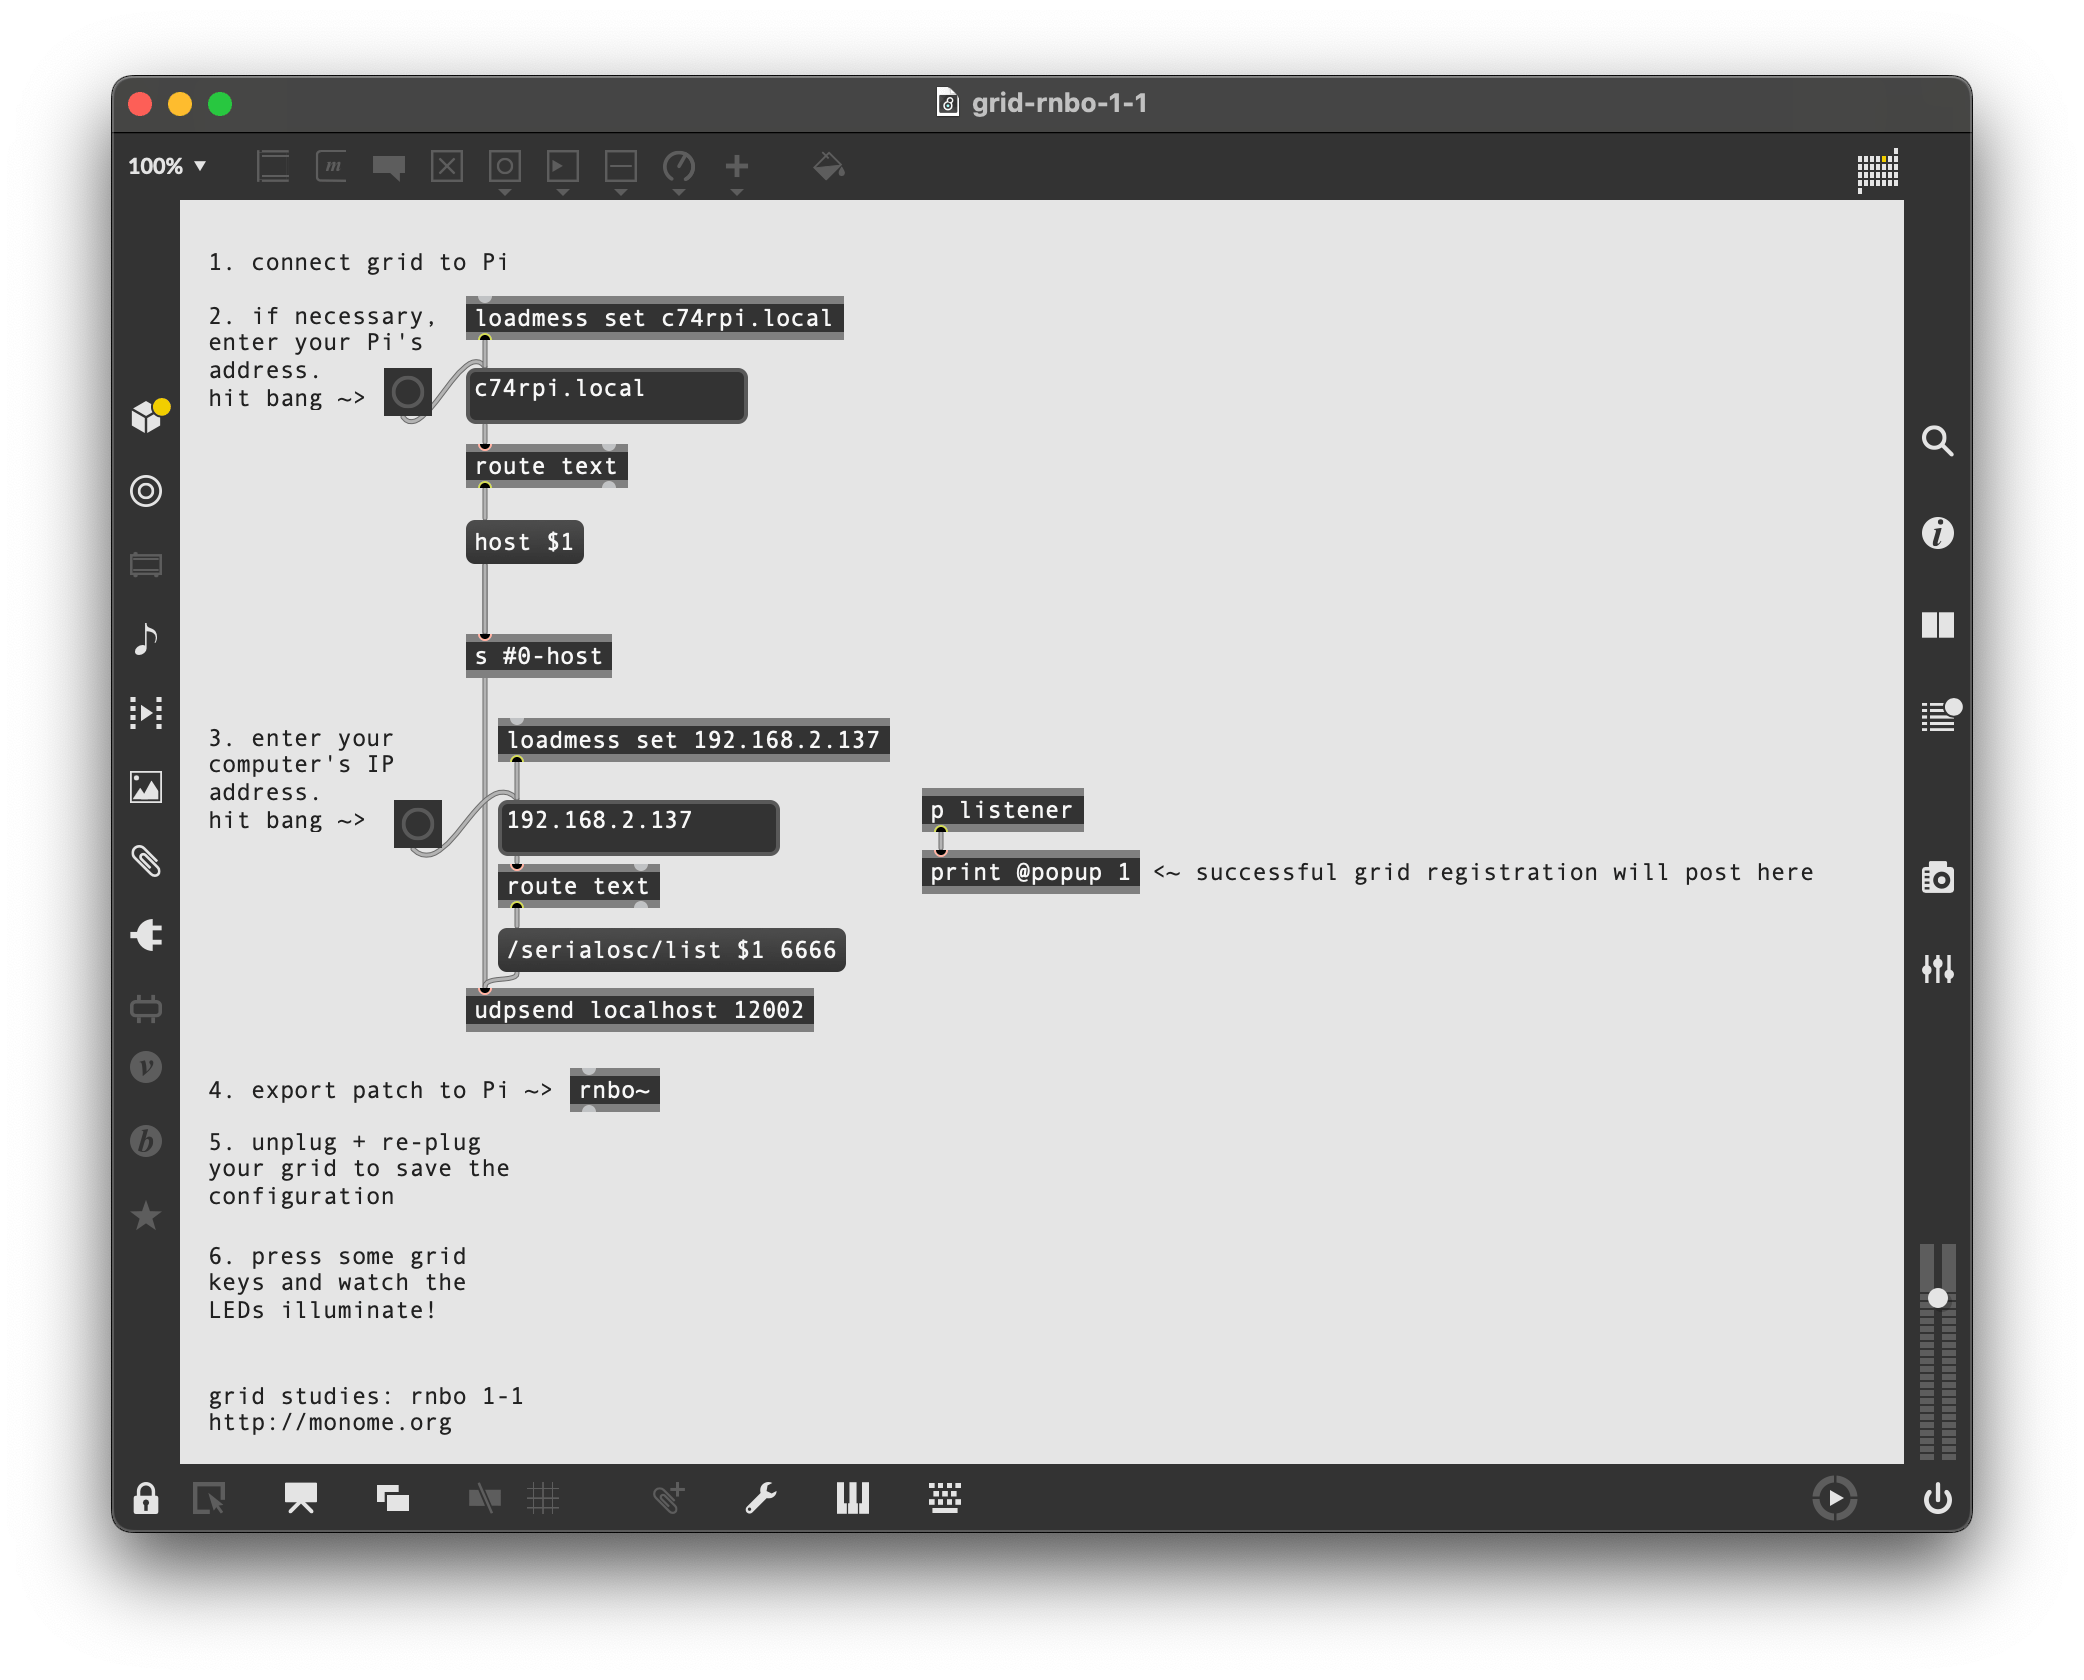
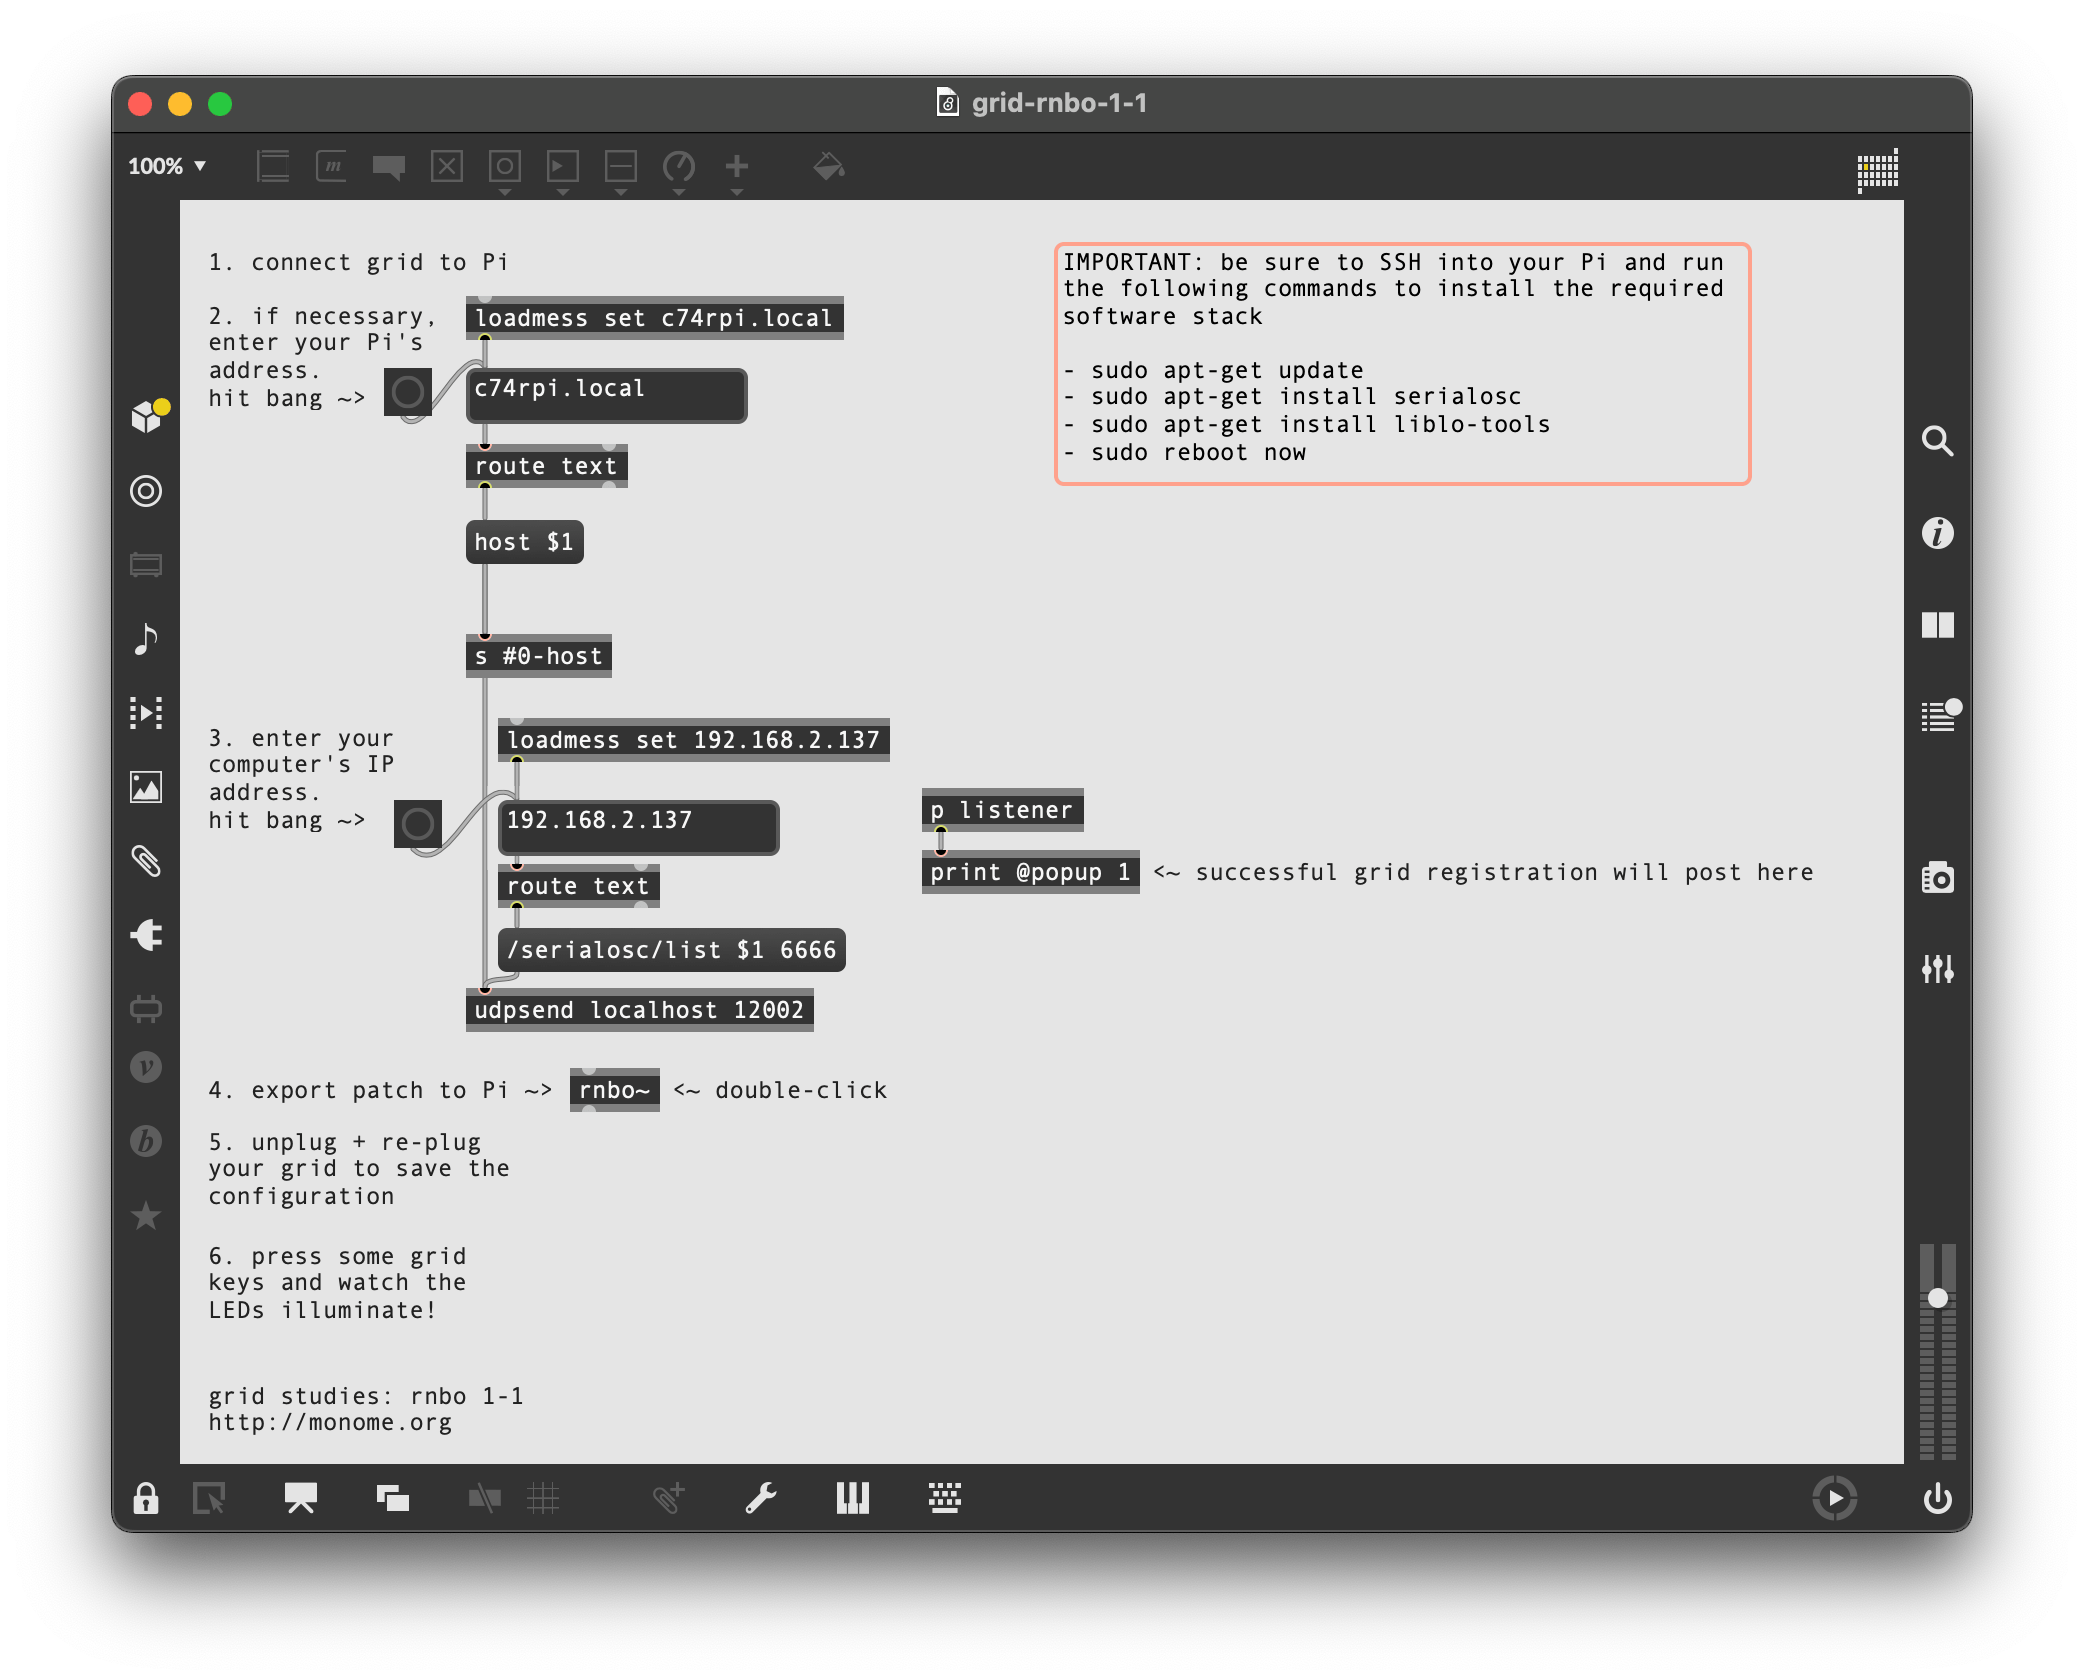
1.3.1

Changed region(s): [[0.499, 0.1238, 0.7486, 0.2786], [0.7486, 0.1238, 0.8421, 0.1857]]

diff --git a/grid/studies/rnbo/index.md b/grid/studies/rnbo/index.md
@@ -9,7 +9,7 @@ RNBO, by [Cycling '74](https://cycling74.com/), is a library and toolchain that 
 
 This tutorial will show the basics of interfacing with the grid including how a simple, yet immediate sequencer platform can be made with a small amount of code.
 
-## Prerequisites
+## IMPORTANT: Prerequisites (#prerequisites)
 
 Since RNBO is an extension of Max, this study assumes familiarity with Max's patching interface and workflow nuances. We'll also assume familiarity with navigating a command line interface, as required by the RNBO Raspberry Pi export process. If you're absolutely new to RNBO it may be helpful to first go through the documents and videos at the [RNBO Hub](https://rnbo.cycling74.com/).
 
@@ -24,7 +24,7 @@ This study's requirements:
   - `sudo apt-get update`
   - `sudo apt-get install serialosc`
   - `sudo apt-get install liblo-tools`
-  - `sudo reboot`
+  - `sudo reboot now`
 
 ### style note
 
@@ -47,7 +47,7 @@ To communicate with grids we trade OSC messages with serialosc. serialosc is an 
 
 First we will show how to talk to serialosc using our RNBO-flashed Pi.
 
-### grid + Pi
+### IMPORTANT: grid + Pi (#grid-pi)
 
 In a terminal on another computer connected to the same network, SSH into your Pi.
 
@@ -57,7 +57,7 @@ Connect your grid to the Pi and set up an OSC monitor with:
 oscdump 6666
 ```
 
-Open another terminal window. To list the available devices, we’ll query `serialoscd` which listens on port 12002, and we’ll route the response to our monitor:
+Open another terminal window and connect to the Pi via SSH again. To list the available devices, we’ll query `serialoscd` which listens on port 12002, and we’ll route the response to our monitor:
 
 ```bash
 oscsend localhost 12002 /serialosc/list si localhost 6666
@@ -92,7 +92,7 @@ e9f88bda.938348f4 /monome/grid/key iii 7 4 0
 
 *Note: you will not be able to connect your grid to your RNBO project unless you perform these tasks.*
 
-Open `grid-rnbo-1-1.maxpat` and perform each of the numbered tasks.
+After completing the steps above, open `grid-rnbo-1-1.maxpat` and perform each of the numbered tasks.
 
 ![](images/rnbo-studies-1-1.png)
 
@@ -346,6 +346,7 @@ We've created a minimal yet intuitive interface for rapidly exploring sequences 
 
 ### Suggested exercises
 
+- Add MIDI output
 - If you have access to a 256 grid, try adapting the 3.x patches to accommodate this larger size.
 - Display the loop range with dim LED levels.
 - "Record" keypresses in the "trigger" row to the toggle matrix.
@@ -358,6 +359,6 @@ We've created a minimal yet intuitive interface for rapidly exploring sequences 
 
 *RNBO* is bundled with *Max* and is actively developed by [Cycling '74](http://cycling74.com).
 
-This tutorial was created by [Dan Derks](https://dndrks.com) for [monome.org](https://monome.org).
+This tutorial was created by [Dan Derks](https://dndrks.com) for [monome.org](https://monome.org), with generous advising from Alex Norman (@ Cycling '74).
 
 Contributions welcome. Submit a pull request to [github.com/monome/docs](https://github.com/monome/docs) or e-mail `help@monome.org`.
